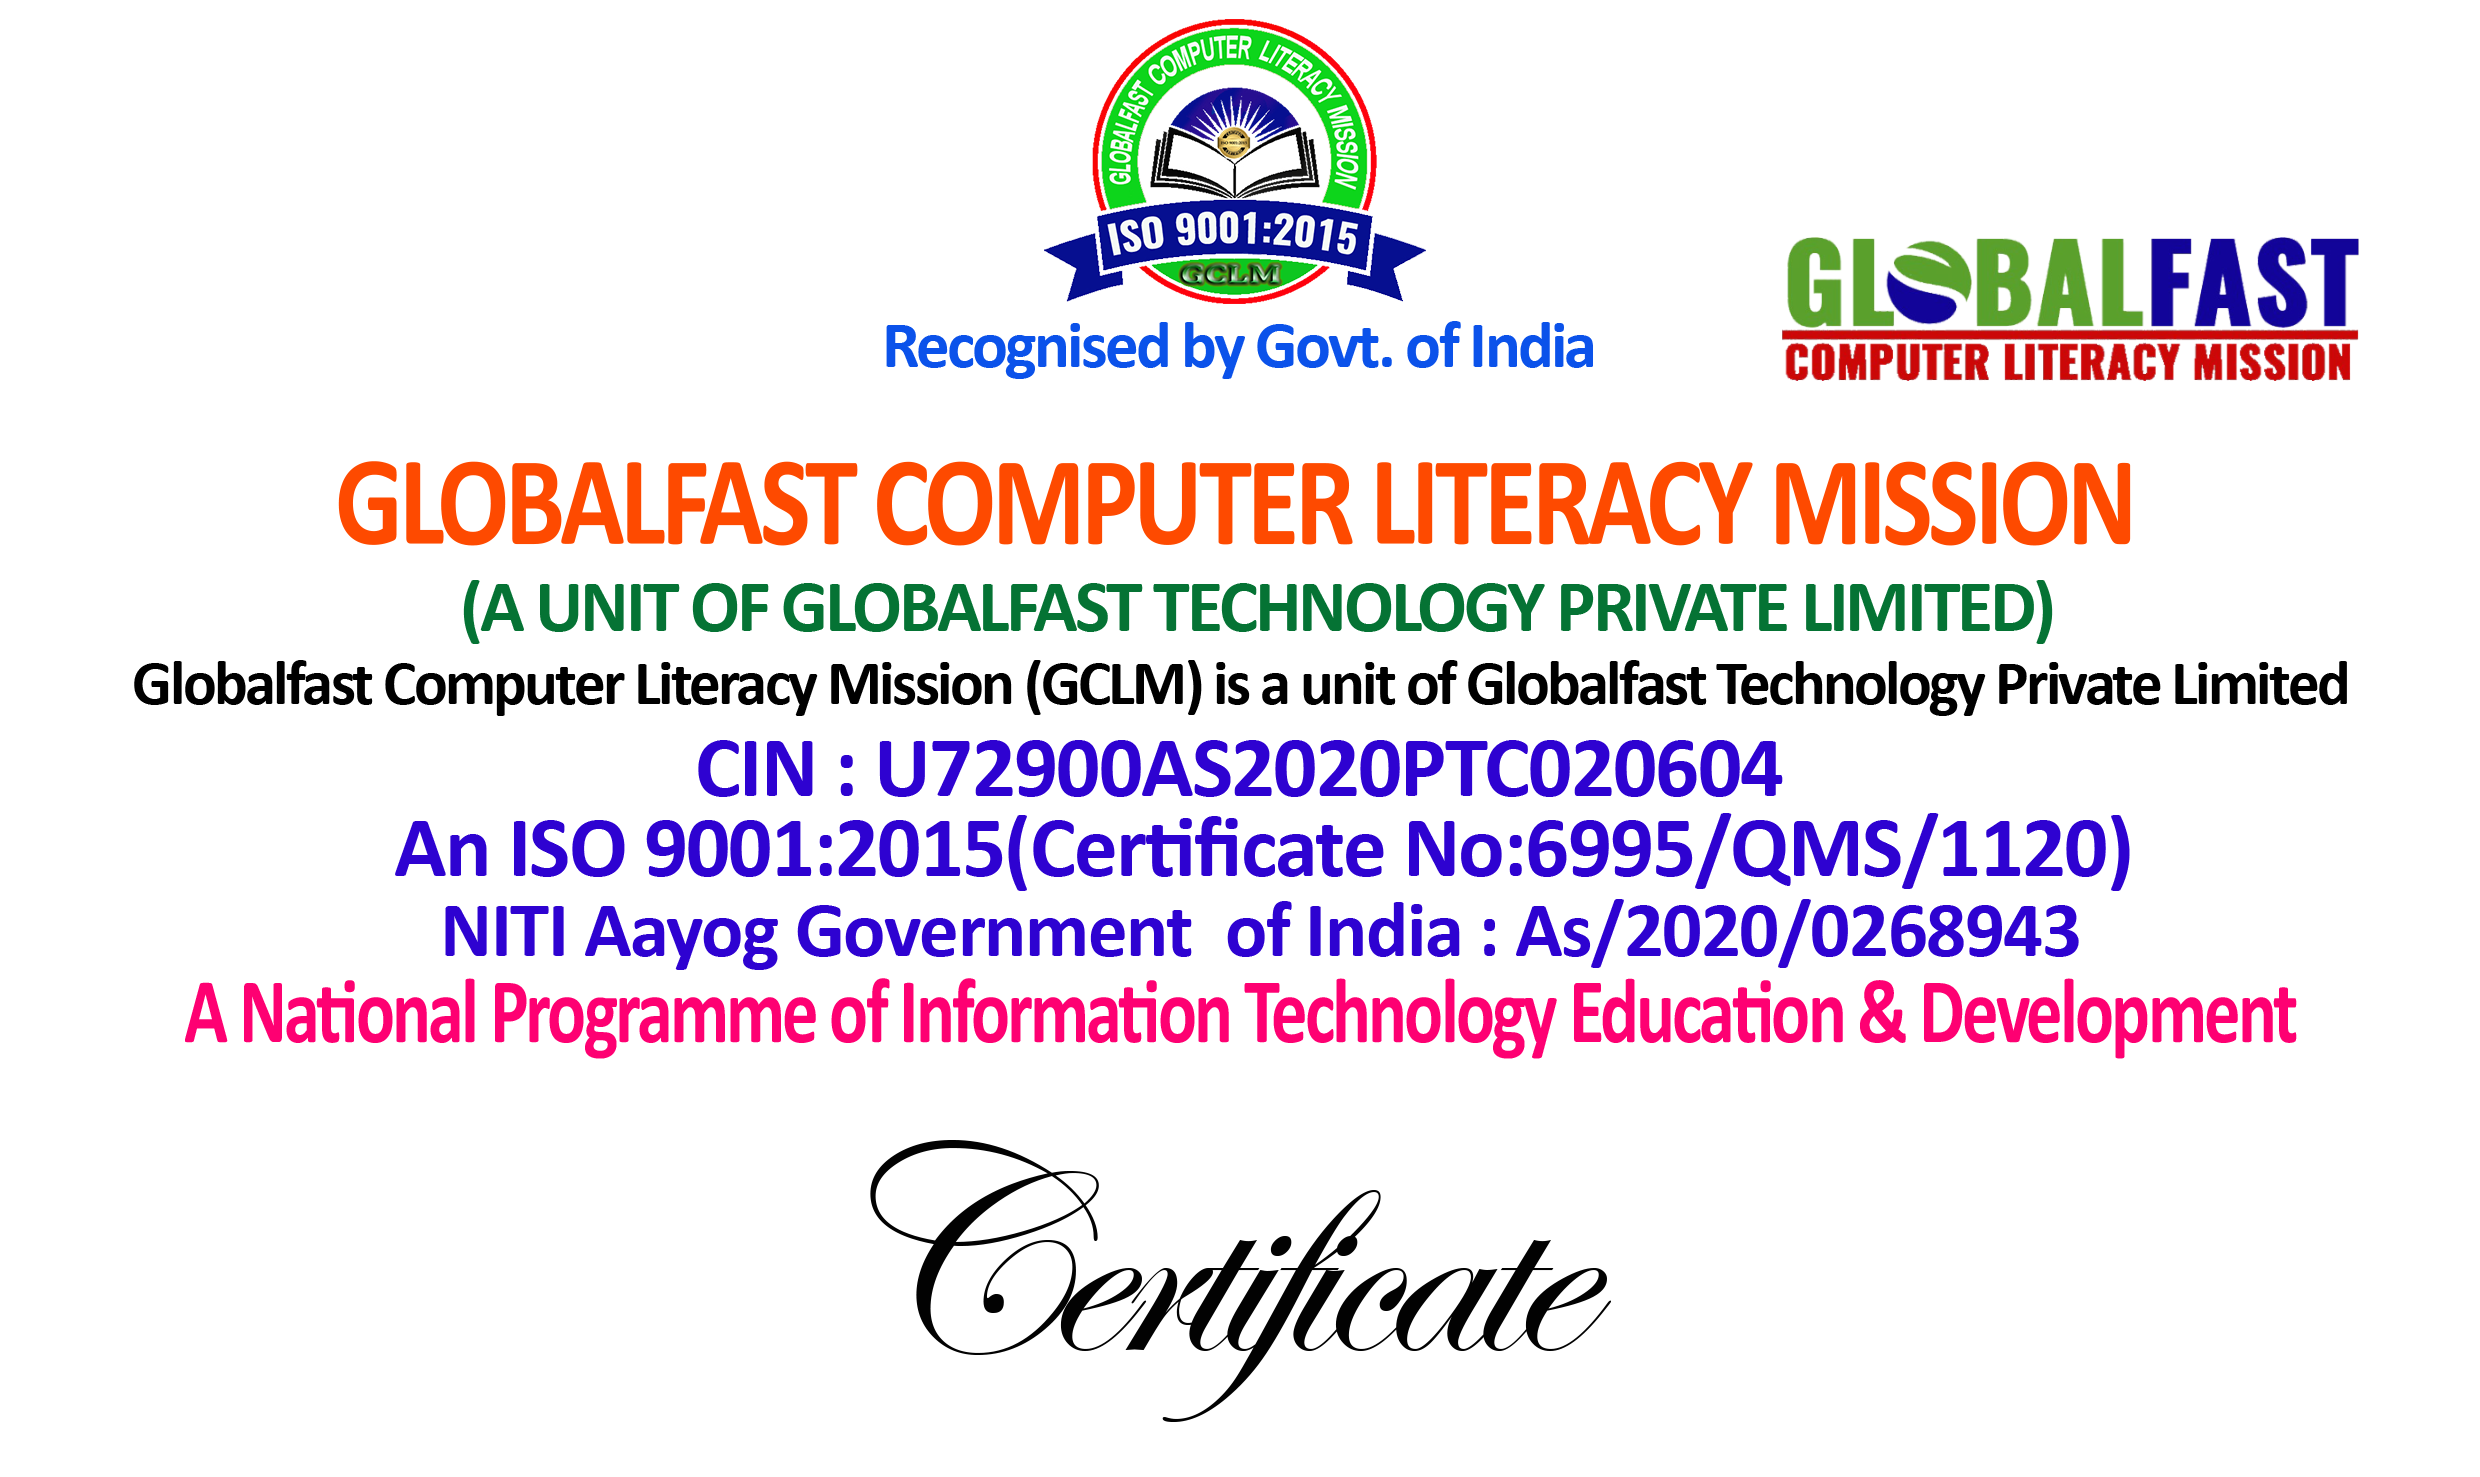
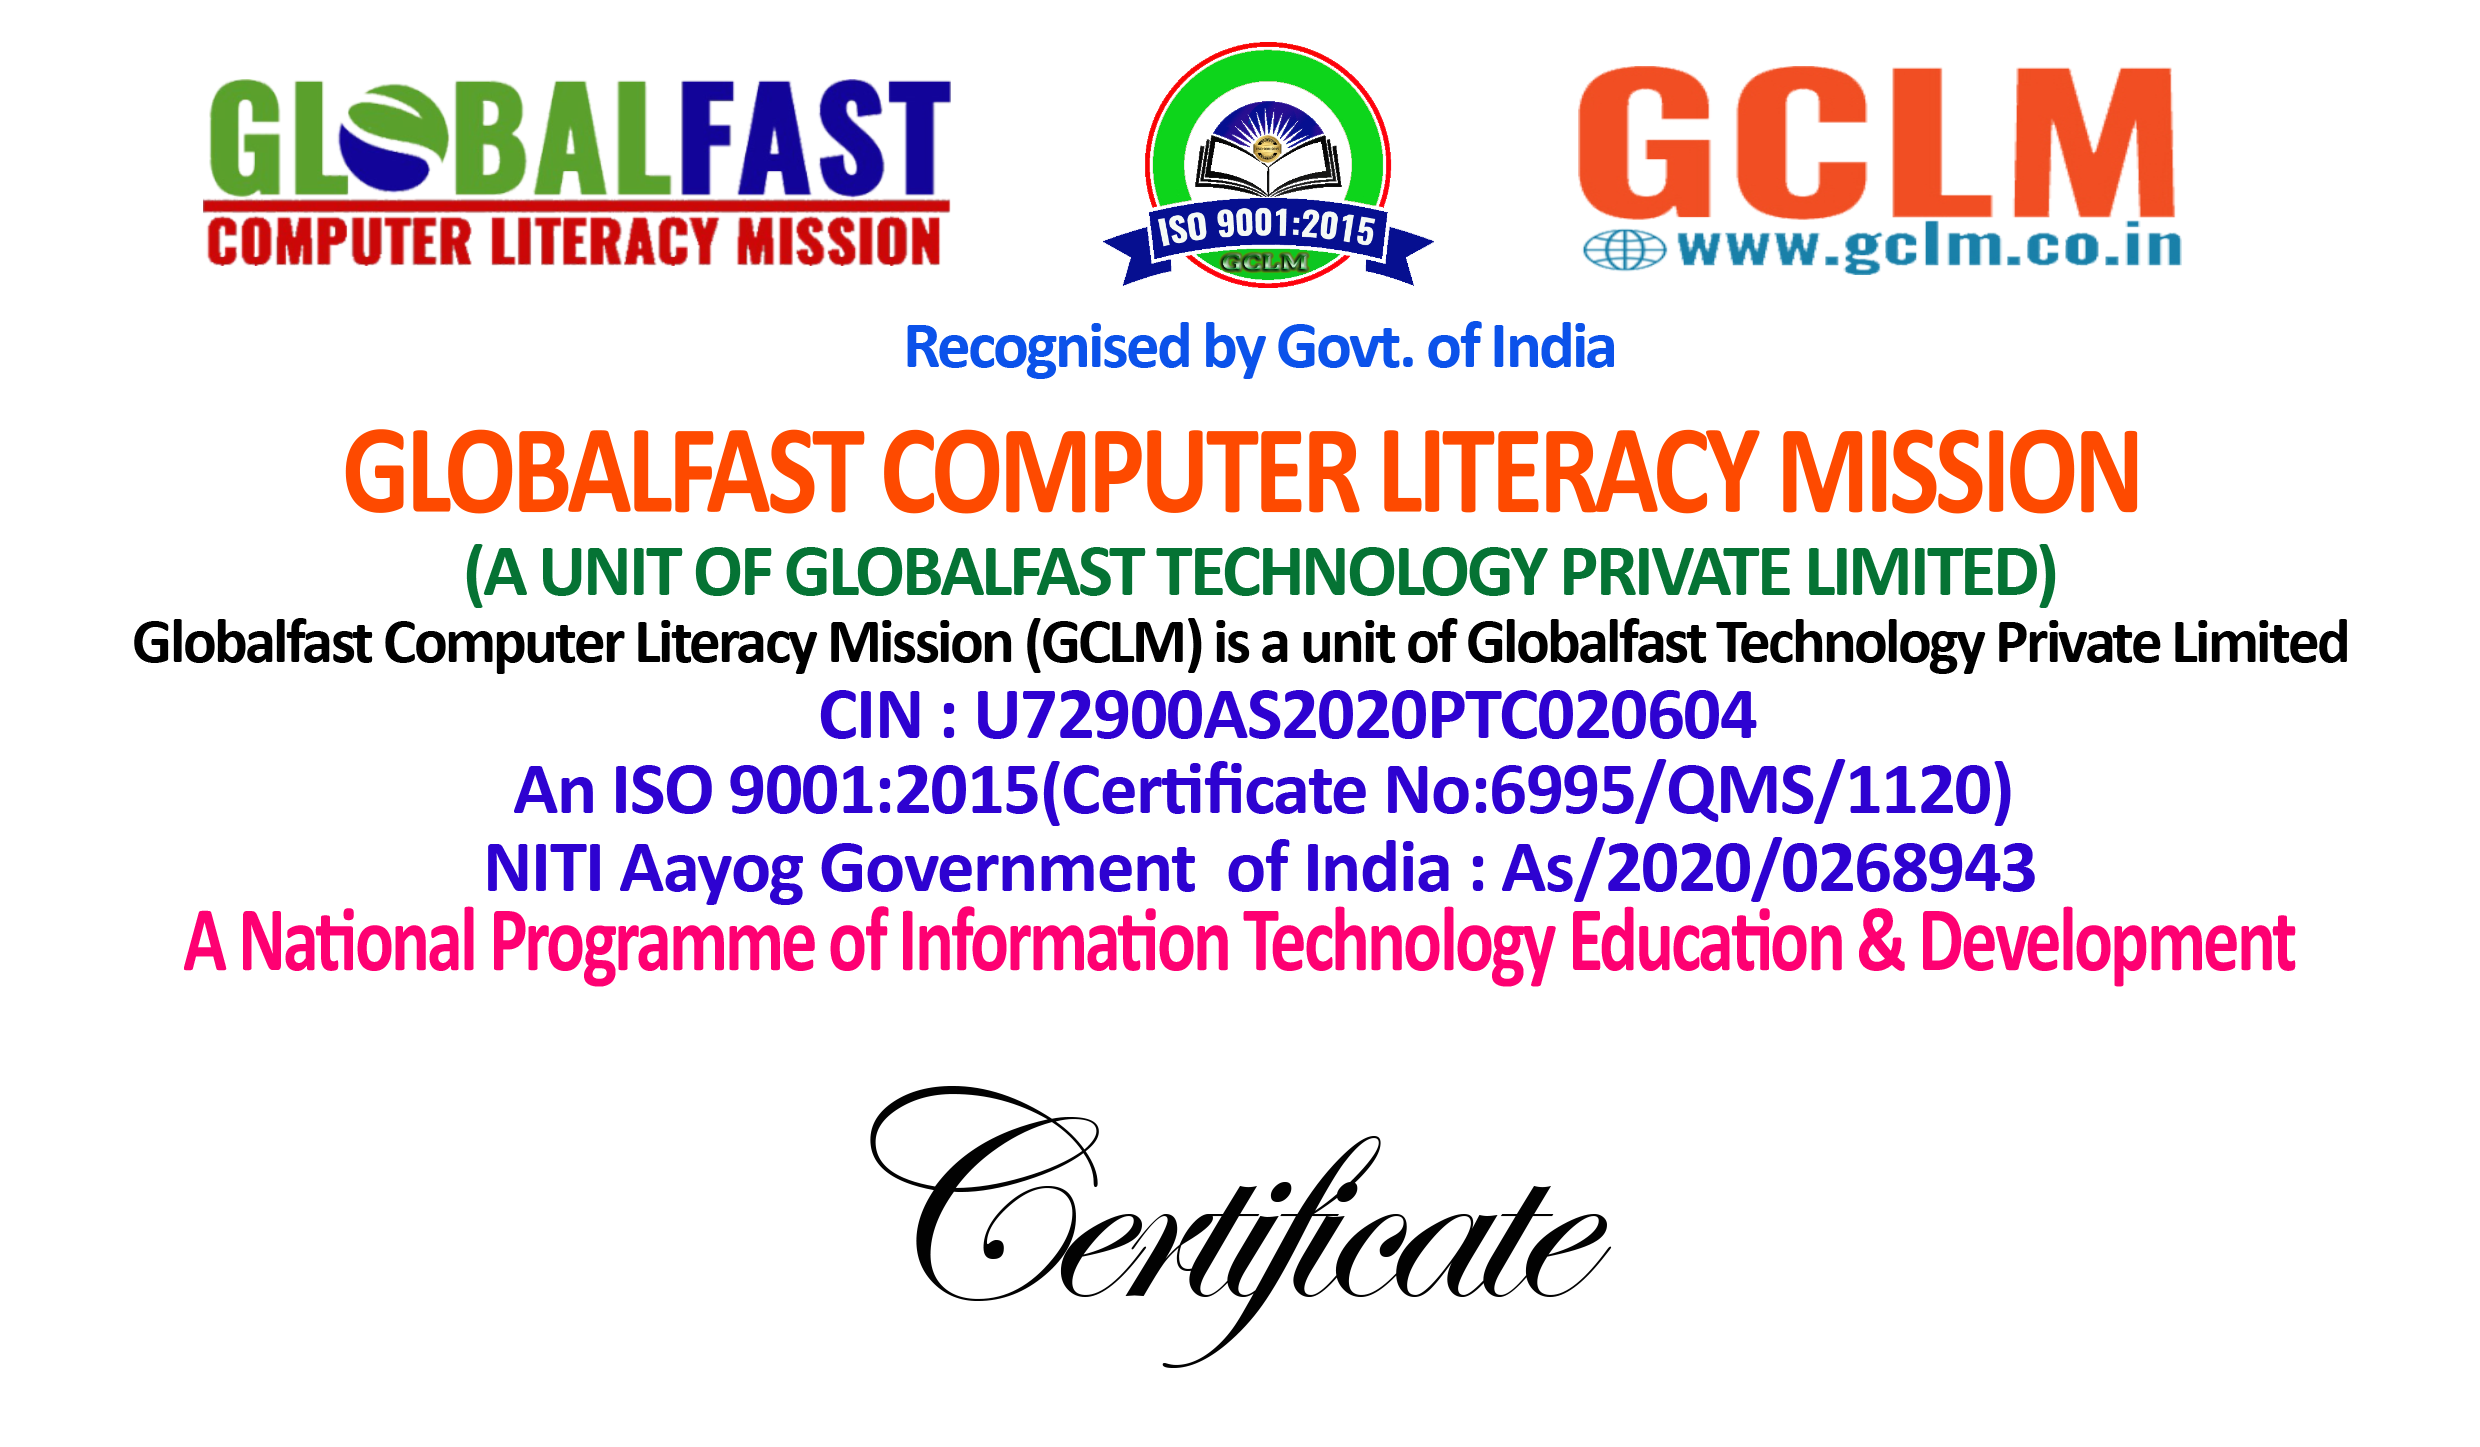
u

Changed region(s): [[0.031, 0.0, 0.9625, 0.7153], [0.3415, 0.7464, 0.652, 0.9641]]

diff --git a/resources/views/web/student/student-certificate.blade.php b/resources/views/web/student/student-certificate.blade.php
@@ -6,77 +6,90 @@
       <meta http-equiv="X-UA-Compatible" content="ie=edge">
       <title>Student Certificate</title>
       <link src={{asset("web/assets/lucida calligraphy italic.ttf")}}>
+      <script src="https://ajax.googleapis.com/ajax/libs/jquery/3.3.1/jquery.min.js"></script>
    </head>
    <style>
-       @media print {
+     @media print {
       #print-btn {
          display :  none;
       }
    }
    </style>
+
    <body>
       <div>
          <div style="border: 4px solid; border-image: linear-gradient(to right, rgb(254 74 0), rgb(241 234 22),rgb(241 234 22),rgb(254 74 0)) ;
          border-image-slice: 1; padding:5px">
          <div style="width:100%;margin: auto; background-image:url('{{asset('web/assets/img/gclm-bg.png')}}');background-size: 5%;padding-top: 10px; overflow: auto;">
             <div style="text-align: center">   
-               <img src="{{asset('web/assets/img/gclm-certificate.png')}}" style="width: 100%;">
+               <img src="{{asset('web/assets/img/gclm-certificate.png')}}" style="width: 90%;">
             </div>
-            <div style="margin: 0px 25px 0px 25px;">
+            <div style="margin-top: -15%;">
+            <div style="width: 20%;float: left;margin: 0px 0px 0px 8px;">
+               <img src="{{asset('web/assets/img/people.png')}}" style="width: 115px;height:125px;">
+            </div>
+            <div style="width: 20%;float: right;">
+               <img src="{{asset('web/assets/img/people.png')}}" style="width: 115px;height:125px;">
+            </div>
+            </div>
+            <div style="margin: 0px 15px 0px 15px;">
               <div style="width: 100%; overflow: auto;">
-                  <h2 style="font-weight: 500;width: 23%; float:left; font-family:lucida calligraphy;font-size: 21px;"><strong>Presented to </strong> </h2>
-                  <h3 style="font-weight: 500;width: 77%; float:right;border-bottom:1px solid;"><span style="padding-left: 20px;">{{$student_details->name}}</span></h3>
+                  <h2 style="font-weight: 500;width: 23%; float:left; font-family:lucida calligraphy;font-size: 20px;"><strong>Presented to </strong> </h2>
+                  <h3 style="font-weight: 500;width: 77%; float:right;border-bottom:1px solid;"><span style="padding-left: 10px;">{{$student_details->name}}</span></h3>
                </div>
             <div style="width: 100%; overflow: auto;">
-                <h2 style="font-weight: 500;width: 18%; float:left;margin-top: 0px;font-family:lucida calligraphy;font-size: 21px;"><strong>S/D/W/O </strong> </h2>
-                <h3 style="font-weight: 500;width: 82%; float:right;border-bottom:1px solid;margin-top: 0px;"><span style="padding-left: 20px;">{{$student_details->father_name}}</span></h3>
+                <h2 style="font-weight: 500;width: 18%; float:left;margin-top: 0px;font-family:lucida calligraphy;font-size: 20px;"><strong>S/D/W/O </strong> </h2>
+                <h3 style="font-weight: 500;width: 82%; float:right;border-bottom:1px solid;margin-top: 0px;"><span style="padding-left: 10px;">{{$student_details->father_name}}</span></h3>
              </div>
              <div style="width: 100%; overflow: auto;">
-                <h2 style="font-weight: 500;width: 55%; float:left;margin-top: 0px;font-family:lucida calligraphy;font-size: 21px;"><strong>has successfully completed the </strong> </h2>
-                <h3 style="font-weight: 500;width: 45%; float:right;border-bottom:1px solid;margin-top: 0px;"><span style="padding-left: 20px;">{{$student_details->student->course->name??null}}</span></h3>
+                <h2 style="font-weight: 500;width: 52%; float:left;margin-top: 0px;font-family:lucida calligraphy;font-size: 20px;"><strong>has successfully completed the </strong> </h2>
+                <h3 style="font-weight: 500;width: 48%; float:right;border-bottom:1px solid;margin-top: 0px;"><span style="padding-left: 10px;">{{$student_details->student->course->name??null}}</span></h3>
              </div>
              <div style="width: 100%; overflow: auto;">
-               <h2 style="font-weight: 500;width: 5%; float:left;margin-top: 0px;font-family:lucida calligraphy;font-size: 21px;"><strong>at </strong> </h2>
-               <h3 style="font-weight: 500;width: 60%; float:left;border-bottom:1px solid;margin-top: 0px;"><span style="padding-left: 20px;">{{$student_details->student->branchDetails->center_name??null}}</span></h3>
-               <h2 style="font-weight: 500;width: 35%; float:right;margin-top: 0px; font-family:lucida calligraphy;font-size: 21px;"><strong style="padding-left: 10px;"> centre of duration </strong> </h2>
+               <h2 style="font-weight: 500;width: 5%; float:left;margin-top: 0px;font-family:lucida calligraphy;font-size: 20px;"><strong>at </strong> </h2>
+               <h3 style="font-weight: 500;width: 60%; float:left;border-bottom:1px solid;margin-top: 0px;"><span style="padding-left: 10px;">{{$student_details->student->branchDetails->center_name??null}}</span></h3>
+               <h2 style="font-weight: 500;width: 35%; float:right;margin-top: 0px; font-family:lucida calligraphy;font-size: 20px;"><strong style="padding-left: 10px;"> centre of duration </strong> </h2>
             </div>
             <div style="width: 100%; overflow: auto;">
-               <h3 style="font-weight: 500;width: 13%; float:left;border-bottom:1px solid;margin-top: 0px;"><span style="padding-left: 20px;">{{$student_details->student->duration??null}}</span></h3>
-               <h2 style="font-weight: 500;width: 44%; float:left;margin-top: 0px;font-family:lucida calligraphy;font-size: 21px;"><strong style="padding-left: 10px;">and obtained the grade </strong> </h2>
+               <h3 style="font-weight: 500;width: 17%; float:left;border-bottom:1px solid;margin-top: 0px;"><span style="padding-left: 20px;">{{$student_details->student->duration??null}}</span></h3>
+               <h2 style="font-weight: 500;width: 42%; float:left;margin-top: 0px;font-family:lucida calligraphy;font-size: 20px;"><strong style="padding-left: 10px;">and obtained the grade </strong> </h2>
                
-               <h3 style="font-weight: 500;width: 10%; float:left;border-bottom:1px solid;margin-top: 0px;"><span style="padding-left: 20px;">{{$student_details->student->grade}}</span></h3>
-               <h2 style="font-weight: 500;width: 33%; float:right;margin-top: 0px; font-family:lucida calligraphy;font-size: 21px;"><strong style="padding-left: 10px;"> in recognition of </strong> </h2>
+               <h3 style="font-weight: 500;width: 9%; float:left;border-bottom:1px solid;margin-top: 0px;"><span style="padding-left: 10px;">{{$student_details->student->grade}}</span></h3>
+               <h2 style="font-weight: 500;width: 32%; float:right;margin-top: 0px; font-family:lucida calligraphy;font-size: 20px;"><strong style="padding-left: 10px;"> in recognition of </strong> </h2>
             </div>
             <div style="width: 100%; overflow: auto;">
-               <h2 style="font-weight: 500;float:left;margin-top: 0px;font-family:lucida calligraphy;font-size: 21px;"><strong>his/her success this certificaten is awarded.</strong> </h2>
+               <h2 style="font-weight: 500;float:left;margin-top: 0px;font-family:lucida calligraphy;font-size: 20px;"><strong>his/her success this certificaten is awarded.</strong> </h2>
             </div>
             <div style="width: 100%; overflow: auto;">
-               <h2 style="font-weight: 500;width: 30%; float:left;margin-top: 0px;font-family:lucida calligraphy;font-size: 21px;"><strong>Training Period </strong> </h2>
-               <h3 style="font-weight: 500;width: 30%; float:left;border-bottom:1px solid;margin-top: 0px;"><span style="padding-left: 20px;">{{$student_details->student->training_from}}</span></h3>
-               <h2 style="font-weight: 500;width: 5%; float:left;margin-top: 0px; font-family:lucida calligraphy;font-size: 21px;"><strong style="padding-left: 10px;"> to </strong> </h2>
-               <h3 style="font-weight: 500;width: 35%; float:left;border-bottom:1px solid;margin-top: 0px;"><span style="padding-left: 20px;">{{$student_details->student->training_to}}</span></h3>
+               <h2 style="font-weight: 500;width: 30%; float:left;margin-top: 0px;font-family:lucida calligraphy;font-size: 20px;"><strong>Training Period </strong> </h2>
+               <h3 style="font-weight: 500;width: 30%; float:left;border-bottom:1px solid;margin-top: 0px;"><span style="padding-left: 10px;">{{$student_details->student->training_from}}</span></h3>
+               <h2 style="font-weight: 500;width: 5%; float:left;margin-top: 0px; font-family:lucida calligraphy;font-size: 20px;"><strong style="padding-left: 10px;"> to </strong> </h2>
+               <h3 style="font-weight: 500;width: 35%; float:left;border-bottom:1px solid;margin-top: 0px;"><span style="padding-left: 10px;">{{$student_details->student->training_to}}</span></h3>
             </div>
             <div style="width: 100%; overflow: auto;">
-               <h2 style="font-weight: 500;width: 26%; float:left;margin-top: 0px;font-family:lucida calligraphy;font-size: 21px;"><strong>Enrolment No  </strong> </h2>
+               <h2 style="font-weight: 500;width: 26%; float:left;margin-top: 0px;font-family:lucida calligraphy;font-size: 20px;"><strong>Enrolment No  </strong> </h2>
                <h3 style="font-weight: 500;width: 28%; float:left;border-bottom:1px solid;margin-top: 0px;"><span style="padding-left: 20px;">{{$student_details->student->enrollment_id}}</span></h3>
-               <h2 style="font-weight: 500;width: 26%; float:left;margin-top: 0px; font-family:lucida calligraphy;font-size: 21px;"><strong style="padding-left: 10px;"> Date of Issue </strong> </h2>
-               <h3 style="font-weight: 500;width: 20%; float:left;border-bottom:1px solid;margin-top: 0px;"><span style="padding-left: 20px;">{{$student_details->student->date_of_issue}}</span></h3>
+               <h2 style="font-weight: 500;width: 26%; float:left;margin-top: 0px; font-family:lucida calligraphy;font-size: 20px;"><strong style="padding-left: 10px;"> Date of Issue </strong> </h2>
+               <h3 style="font-weight: 500;width: 20%; float:left;border-bottom:1px solid;margin-top: 0px;"><span style="padding-left: 10px;">{{$student_details->student->date_of_issue}}</span></h3>
             </div>
-            <div style="width: 30%; float:left;margin-top: 25px;"></div>
-            <div style="width: 40%; float:left;margin-top: 25px;">
-               <div style="text-align: center">   
+            <!--<div style="width: 30%; float:left;margin-top: 25px;"></div>-->
+            <div style="width: 70%; float:left;margin-top:10px;">
+               <div>   
                   <img src="{{asset('web/assets/img/iso.png')}}" style="width: 20%;">
                   <img src="{{asset('web/assets/img/uasl.png')}}" style="width: 35%;">
                </div>
             </div>
-               <div style="width: 30%;float: right;margin-top: 7px;">
-                  <img src="{{ asset('images/board/thumb/'.$board->sign) }}" alt="test" style="width: 150px;height:38px;">
+               <div style="width: 30%;float: right;">
+                   <img src="{{ asset('images/board/thumb/'.$board->sign) }}" alt="test" style="width: 150px;height:38px;">
                   <h2 style="font-weight: 500;font-family:lucida calligraphy;font-size: 21px;"><strong>Chairman</strong></h2>
                   <h3 style="font-weight: 500;margin-top: -16px; margin-bottom:2px;font-family:lucida calligraphy;font-size: 15px;"><strong>Board of Examination</strong></h3>
                </div>
                <div style="width: 100%; overflow: auto; padding-bottom: 12px;">
-                  <h2 style="font-weight: 500;font-size:15.7px;background-color:#50a808; padding:8px;"><strong>Grade:80% & Above"A+", 70 to 79% "A", 60 to 69% "B+", 50 to 59% "B", 40 to 49 "C"  </strong> </h2>
+                  <h2 style="font-weight: 500;font-size:15.7px;background-color:#50a808; padding:8px;"><strong>Grade : 80% & Above"A+", 70 to 79% "A", 60 to 69% "B+", 50 to 59% "B", 40 to 49 "C"  </strong> </h2>
                  </div>
+                 <div style="text-align: center;margin-top: -2%;">   
+                  <img src="{{asset('web/assets/img/web.png')}}" >
+               </div>
                <img src="{{asset('web/assets/img/watermark.png')}}" alt="watermark"  style="position: absolute;top: 42%;width: 60%;left: 22%;z-index: -1; opacity: 0.3;">
             </div>
          </div>
